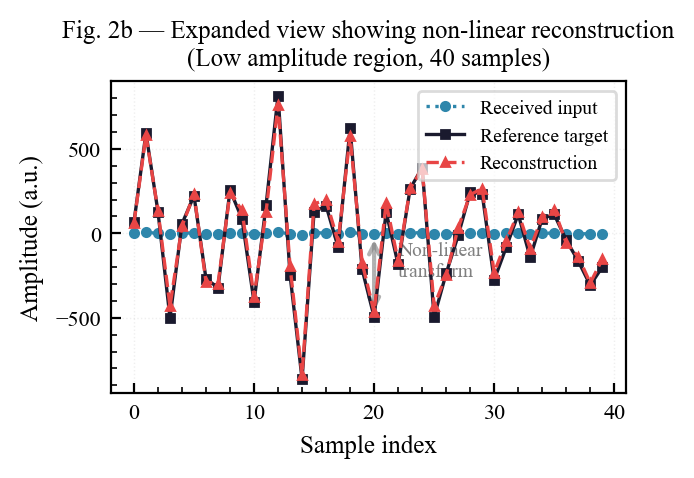
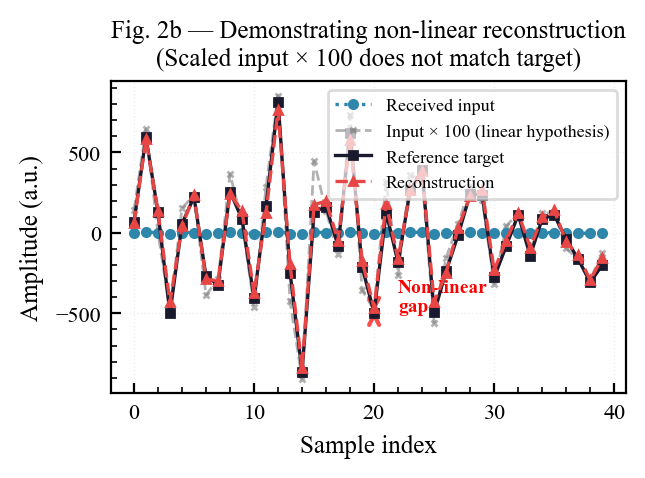
5 fold

diff --git a/mlp.py b/mlp.py
@@ -225,6 +225,22 @@ print(f"  MAE      : {m['MAE']:>15,.2f}")
 print(f"  R²       : {m['R2']:>15.6f}")
 print(f"  Env-MAPE : {mape_env:>14.2f}%")
 
+# Sensitivity analysis for REL_FLOOR_FRAC
+print("\n" + "=" * 65)
+print("SENSITIVITY ANALYSIS: Relative Error Floor")
+print("=" * 65)
+floor_values = [0.005, 0.01, 0.02, 0.05]
+print(f"  {'Floor %':<10} {'MAPE':<10} {'MdAPE':<10} {'P95':<10} {'P99':<10}")
+print("  " + "-" * 50)
+for floor_frac in floor_values:
+    rel_test, _ = envelope_relative_error(env_true, yt, yp, floor_frac=floor_frac)
+    rel_test_pct = 100 * rel_test
+    print(f"  {floor_frac*100:>6.2f}%    "
+          f"{rel_test_pct.mean():>8.2f}% "
+          f"{np.median(rel_test_pct):>8.2f}% "
+          f"{np.percentile(rel_test_pct, 95):>8.2f}% "
+          f"{np.percentile(rel_test_pct, 99):>8.2f}%")
+
 # ══════════════════════════════════════════════════════════════════════════════
 # FIGURE 1: Predicted vs. Actual Envelope
 # ══════════════════════════════════════════════════════════════════════════════
@@ -300,9 +316,10 @@ print("Saved: fig2_overlay_excerpts.png")
 # ══════════════════════════════════════════════════════════════════════════════
 # FIGURE 2b: Expanded View (showing non-linearity)
 # ══════════════════════════════════════════════════════════════════════════════
-# Use the Q1 (low amplitude) segment to clearly show non-linear behavior
+# Scale the received input by 20x to show it's NOT just a linear scaling
+# If reconstruction were linear, scaled input would match the target
 expand_start = starts[0]
-expand_len = 40  # smaller window for detail
+expand_len = 40
 
 fig2b, ax = plt.subplots(figsize=(PANEL_W, PANEL_W * 0.75))
 t_expand = np.arange(expand_len)
@@ -311,21 +328,27 @@ xc_exp = xc[expand_start:expand_start + expand_len]
 yt_exp = yt[expand_start:expand_start + expand_len]
 yp_exp = yp[expand_start:expand_start + expand_len]
 
+# Scale the input to approximately match target amplitude range
+scale_factor = 100
+xc_scaled = xc_exp * scale_factor
+
 ax.plot(t_expand, xc_exp, color=COLOR_CMP, lw=1.2, ls=":", label="Received input", marker='o', ms=3, zorder=2)
+ax.plot(t_expand, xc_scaled, color='gray', lw=1.0, ls="--", alpha=0.6, label=f"Input × {scale_factor} (linear hypothesis)", marker='x', ms=2, zorder=1)
 ax.plot(t_expand, yt_exp, color=COLOR_ACT, lw=1.2, label="Reference target", marker='s', ms=3, zorder=4)
 ax.plot(t_expand, yp_exp, color=COLOR_PRD, lw=1.2, ls="--", label="Reconstruction", marker='^', ms=3, zorder=5)
 
-# Highlight non-linear behavior with annotations
+# Annotate to show the difference
 mid_pt = expand_len // 2
-ax.annotate('', xy=(mid_pt, yt_exp[mid_pt]), xytext=(mid_pt, xc_exp[mid_pt]),
-            arrowprops=dict(arrowstyle='<->', color='gray', lw=1.5, alpha=0.6))
-ax.text(mid_pt + 2, (yt_exp[mid_pt] + xc_exp[mid_pt]) / 2, 
-        'Non-linear\ntransform', fontsize=7, color='gray')
+ax.annotate('', xy=(mid_pt, yt_exp[mid_pt]), xytext=(mid_pt, xc_scaled[mid_pt]),
+            arrowprops=dict(arrowstyle='<->', color='red', lw=1.5, alpha=0.7))
+ax.text(mid_pt + 2, (yt_exp[mid_pt] + xc_scaled[mid_pt]) / 2, 
+        'Non-linear\ngap', fontsize=7, color='red', fontweight='bold')
 
 ax.set_xlabel("Sample index")
 ax.set_ylabel("Amplitude (a.u.)")
-ax.set_title("Fig. 2b — Expanded view showing non-linear reconstruction\n(Low amplitude region, 40 samples)")
-ax.legend(loc="upper right", framealpha=0.7, fontsize=7)
+ax.set_title(f"Fig. 2b — Demonstrating non-linear reconstruction\n"
+             f"(Scaled input × {scale_factor} does not match target)")
+ax.legend(loc="upper right", framealpha=0.7, fontsize=6.5)
 ax.xaxis.set_minor_locator(AutoMinorLocator())
 ax.yaxis.set_minor_locator(AutoMinorLocator())
 ax.grid(True, alpha=0.2, linestyle=':', linewidth=0.5)
@@ -426,6 +449,46 @@ print(f"{'='*65}")
 print(f"Found {len(log_delay_files)} log delay files")
 
 if len(log_delay_files) > 0:
+    # ══════════════════════════════════════════════════════════════════════════
+    # WAVEFORM COMPARISON: How different are the 10 waveforms?
+    # ══════════════════════════════════════════════════════════════════════════
+    print(f"\n{'='*65}")
+    print("WAVEFORM STATISTICAL COMPARISON")
+    print(f"{'='*65}")
+    print(f"  {'File':<30} {'Mean':>10} {'Std':>10} {'Min':>10} {'Max':>10} {'Env Mean':>10}")
+    print("  " + "-" * 85)
+    
+    waveform_stats = []
+    for f in log_delay_files:
+        d = loadmat(f)
+        sig_in = d["train_input_real"].ravel()
+        sig_out = d["train_output_real"].ravel()
+        env = analytic_envelope(sig_out)
+        
+        fname = os.path.basename(f)
+        print(f"  {fname:<30} "
+              f"{sig_out.mean():>10,.2f} "
+              f"{sig_out.std():>10,.2f} "
+              f"{sig_out.min():>10,.2f} "
+              f"{sig_out.max():>10,.2f} "
+              f"{env.mean():>10,.2f}")
+        
+        waveform_stats.append({
+            'file': fname,
+            'mean': sig_out.mean(),
+            'std': sig_out.std(),
+            'min': sig_out.min(),
+            'max': sig_out.max(),
+            'env_mean': env.mean()
+        })
+    
+    # Summary statistics across waveforms
+    df_stats = pd.DataFrame(waveform_stats)
+    print("\n  Coefficient of Variation across waveforms:")
+    print(f"    Mean:     {df_stats['mean'].std() / abs(df_stats['mean'].mean()) * 100:.2f}%")
+    print(f"    Std:      {df_stats['std'].std() / df_stats['std'].mean() * 100:.2f}%")
+    print(f"    Env Mean: {df_stats['env_mean'].std() / df_stats['env_mean'].mean() * 100:.2f}%")
+    print(f"{'='*65}\n")
     # Concatenate all 10 waveforms
     all_in, all_out = [], []
     for f in log_delay_files:
@@ -533,6 +596,90 @@ else:
     print("      fname = sprintf('eager1_log_delay_%02d.mat', i);")
     print("      copyfile(fullfile(src, fname), fullfile(dst, fname));")
     print("  end")
+
+# ══════════════════════════════════════════════════════════════════════════════
+# CROSS-VALIDATION: 5-Fold on individual waveforms
+# ══════════════════════════════════════════════════════════════════════════════
+print("\n" + "=" * 65)
+print("5-FOLD CROSS-VALIDATION (by waveform)")
+print("=" * 65)
+print("Training 5 folds, each using 8 waveforms for train, 2 for test...")
+
+if len(log_delay_files) == 10:
+    from sklearn.model_selection import KFold
+    
+    # Each fold: 8 waveforms train, 2 waveforms test
+    fold_results = []
+    kf = KFold(n_splits=5, shuffle=True, random_state=42)
+    
+    waveform_arrays = [(all_in[i], all_out[i]) for i in range(10)]
+    
+    for fold_idx, (train_idx, test_idx) in enumerate(kf.split(waveform_arrays)):
+        print(f"\n  Fold {fold_idx + 1}/5: Train on waveforms {train_idx + 1}, Test on waveforms {test_idx + 1}")
+        
+        # Concatenate training waveforms
+        train_in = np.concatenate([waveform_arrays[i][0] for i in train_idx])
+        train_out = np.concatenate([waveform_arrays[i][1] for i in train_idx])
+        
+        # Concatenate test waveforms
+        test_in = np.concatenate([waveform_arrays[i][0] for i in test_idx])
+        test_out = np.concatenate([waveform_arrays[i][1] for i in test_idx])
+        
+        # Create windowed data
+        X_train_fold, y_train_fold = make_window_data(train_in, train_out, WINDOW)
+        X_test_fold, y_test_fold = make_window_data(test_in, test_out, WINDOW)
+        
+        # Normalize
+        X_mean_fold = X_train_fold.mean(0, keepdims=True)
+        X_std_fold = X_train_fold.std(0, keepdims=True) + 1e-8
+        y_mean_fold = y_train_fold.mean(0, keepdims=True)
+        y_std_fold = y_train_fold.std(0, keepdims=True) + 1e-8
+        
+        X_train_s = (X_train_fold - X_mean_fold) / X_std_fold
+        y_train_s = (y_train_fold - y_mean_fold) / y_std_fold
+        X_test_s = (X_test_fold - X_mean_fold) / X_std_fold
+        
+        # Train ensemble for this fold
+        fold_preds = []
+        for arch in TOP_ARCHS:
+            mlp = MLPRegressor(**SHARED_PARAMS, hidden_layer_sizes=arch, random_state=42)
+            mlp.fit(X_train_s, np.ravel(y_train_s))
+            yhat_s = mlp.predict(X_test_s).reshape(-1, 1)
+            yhat = np.ravel(yhat_s * y_std_fold + y_mean_fold)
+            fold_preds.append(yhat)
+        
+        # Ensemble prediction
+        yp_fold = np.mean(fold_preds, axis=0)
+        yt_fold = y_test_fold.ravel()
+        
+        # Metrics
+        m_fold = metrics(yt_fold, yp_fold)
+        env_fold = analytic_envelope(yt_fold)
+        rel_fold, _ = envelope_relative_error(env_fold, yt_fold, yp_fold, floor_frac=REL_FLOOR_FRAC)
+        
+        fold_results.append({
+            'fold': fold_idx + 1,
+            'rmse': m_fold['RMSE'],
+            'mae': m_fold['MAE'],
+            'r2': m_fold['R2'],
+            'env_mape': 100 * rel_fold.mean()
+        })
+        
+        print(f"    RMSE: {m_fold['RMSE']:,.2f}, R²: {m_fold['R2']:.6f}, Env-MAPE: {100*rel_fold.mean():.2f}%")
+    
+    # Summary statistics
+    df_cv = pd.DataFrame(fold_results)
+    print("\n" + "=" * 65)
+    print("CROSS-VALIDATION SUMMARY")
+    print("=" * 65)
+    print(f"  RMSE:     {df_cv['rmse'].mean():>10,.2f} ± {df_cv['rmse'].std():>8,.2f}")
+    print(f"  MAE:      {df_cv['mae'].mean():>10,.2f} ± {df_cv['mae'].std():>8,.2f}")
+    print(f"  R²:       {df_cv['r2'].mean():>10.6f} ± {df_cv['r2'].std():>8.6f}")
+    print(f"  Env-MAPE: {df_cv['env_mape'].mean():>9.2f}% ± {df_cv['env_mape'].std():>7.2f}%")
+    print("=" * 65)
+
+else:
+    print("Skipping cross-validation (need all 10 waveform files)")
 
 print("\n" + "="*65)
 print("DATA STRUCTURE EXPLANATION")
